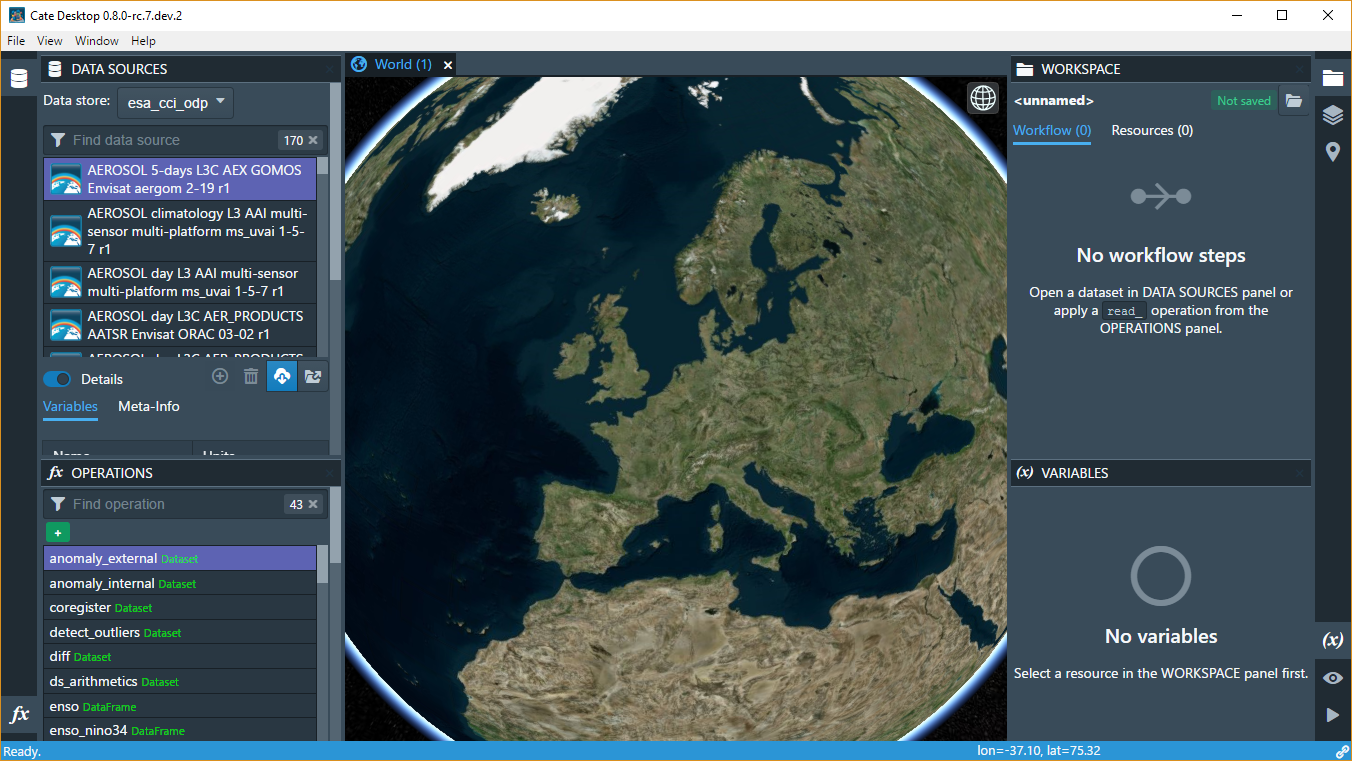
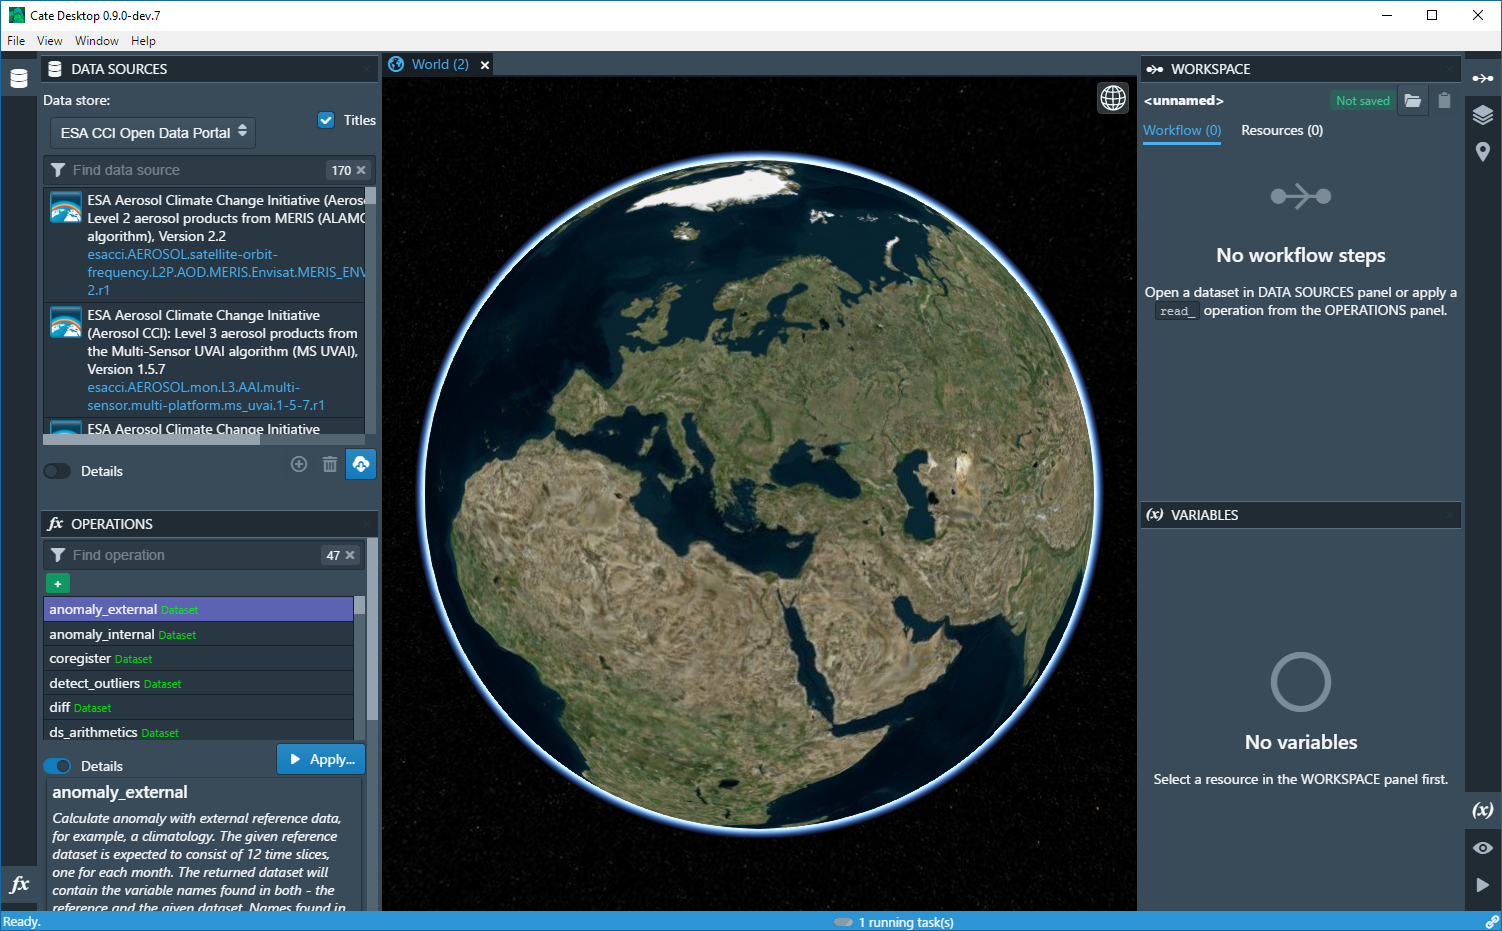
updates

diff --git a/doc/source/user_manual/um_gui.rst b/doc/source/user_manual/um_gui.rst
@@ -2,7 +2,7 @@
 Cate Desktop (GUI)
 ==================
 
-*Applies to Cate Desktop, version 0.8.0*
+*Applies to Cate Desktop, version 0.9.0.dev7*
 
 Overview
 ========
@@ -28,8 +28,6 @@ The Cate Desktop user interface basically comprises *panels*, *views*, and a *me
    :align: center
 
    Cate Desktop initial layout
-
-
 
 ------
 Panels

diff --git a/doc/source/index.rst b/doc/source/index.rst
@@ -1,8 +1,12 @@
 .. Cate documentation master file
 
-=============================
-ESA CCI Toolbox Documentation
-=============================
+==========================
+Cate - The ESA CCI Toolbox
+==========================
+
+.. figure:: _static/figures/cate_desktop.png
+   :scale: 50%
+   :align: center
 
 
 .. toctree::
